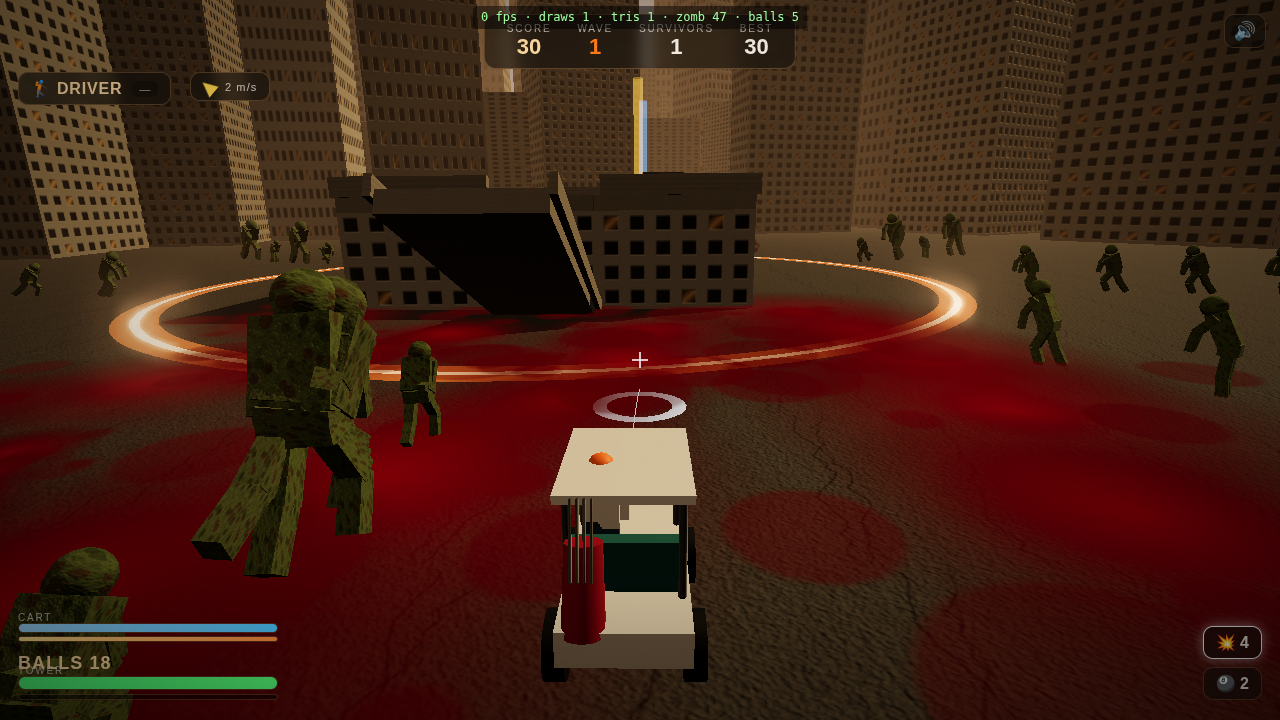
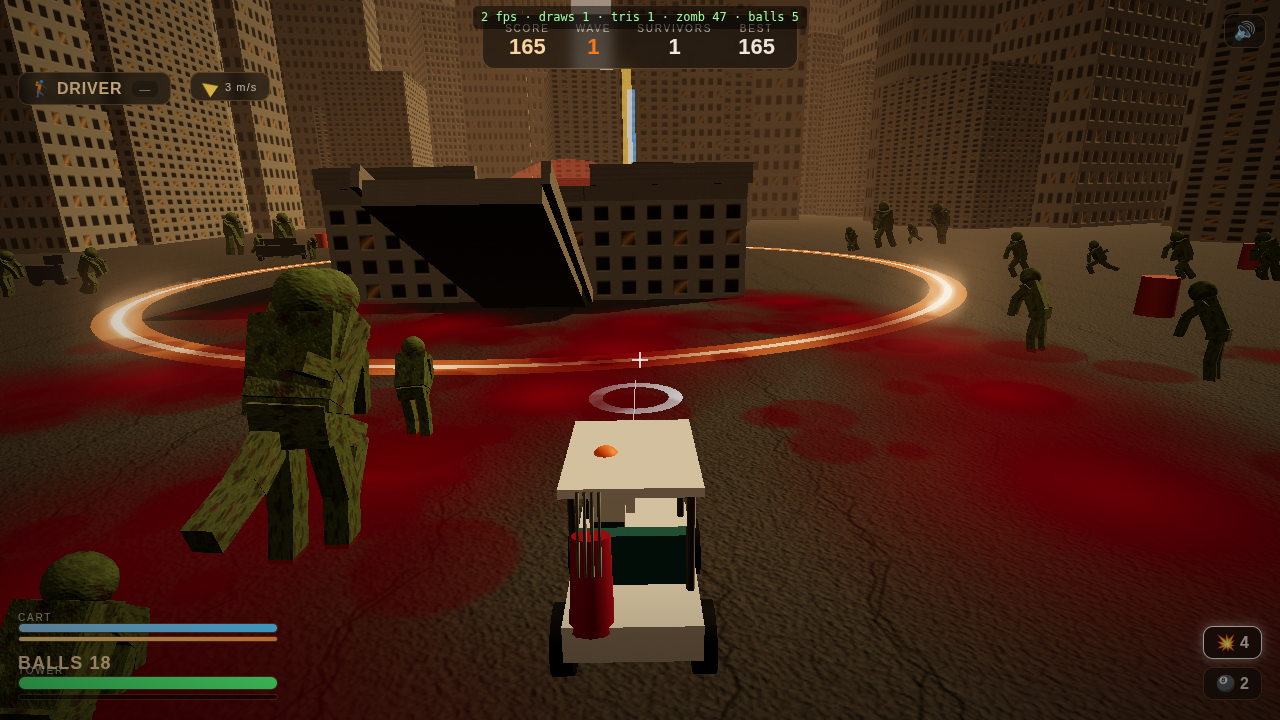
Slice 5: chaos props (barrels/cars, chain reactions) + fireball juice
New props.js: explosive barrels + abandoned cars as two InstancedMeshes (2 draw
calls), seeded placement in clusters + rings, ball/explosion/cart detonation
with staggered chain reactions, AoE kills + score + screenshake + hit-stop +
bloom boom-pulse + world flash. effects.js gains muzzle/fireball/embers/smoke/
debris and bigger pools (cap 900, 8 flashes). Bloom already composited (Slice 0).
Verified: 21 props placed, ball detonation chained (2 destroyed) scoring 135;
zero errors.

Claude-Session: https://claude.ai/code/session_01Mg4jfxrjoLk6LwHjJKuzM6

diff --git a/public/js/props.js b/public/js/props.js
@@ -1,0 +1,196 @@
+// =============================================================
+// Props — street-level destructibles: explosive barrels + abandoned cars.
+// Two InstancedMeshes (2 draw calls). Ball/explosion/cart detonation with
+// staggered chain reactions. Zero per-frame allocation.
+// =============================================================
+import * as THREE from 'three';
+import { CONFIG } from './config.js';
+import { makeRNG, mergeGeometries, TAU } from './utils.js';
+
+const P = CONFIG.props;
+
+export class Props {
+  constructor(scene, ctx) {
+    this.ctx = ctx;
+    this.rng = makeRNG(4242);
+
+    // ---- barrel mesh (rust cylinder, base at y=0) ----
+    const bgeo = new THREE.CylinderGeometry(P.barrelRadius * 0.8, P.barrelRadius * 0.85, P.barrelHeight, 12);
+    bgeo.translate(0, P.barrelHeight / 2, 0);
+    const bmat = new THREE.MeshStandardMaterial({ color: CONFIG.col.barrel, metalness: 0.3, roughness: 0.6 });
+    this.barrelMesh = new THREE.InstancedMesh(bgeo, bmat, P.barrelCount);
+    this.barrelMesh.castShadow = false; this.barrelMesh.receiveShadow = false; this.barrelMesh.frustumCulled = false;
+    this.barrelMesh.instanceMatrix.setUsage(THREE.DynamicDrawUsage);
+    scene.add(this.barrelMesh);
+
+    // ---- car mesh (merged boxes + wheels, wheels at y≈0.6) ----
+    const h = P.carHalf;
+    const parts = [];
+    const M = (geo, x, y, z) => { const m = new THREE.Matrix4().makeTranslation(x, y, z); parts.push({ geo, mat4: m }); };
+    M(new THREE.BoxGeometry(h[0] * 2, h[1] * 1.1, h[2] * 2), 0, 0.6 + h[1] * 0.55, 0);
+    M(new THREE.BoxGeometry(h[0] * 1.3, h[1] * 1.0, h[2] * 1.1), 0, 0.6 + h[1] * 1.3, -0.4);
+    for (const [wx, wz] of [[h[0] - 0.4, h[2] - 0.5], [-(h[0] - 0.4), h[2] - 0.5], [h[0] - 0.4, -(h[2] - 0.5)], [-(h[0] - 0.4), -(h[2] - 0.5)]]) {
+      const wg = new THREE.CylinderGeometry(0.6, 0.6, 0.5, 10); wg.rotateZ(Math.PI / 2);
+      M(wg, wx, 0.6, wz);
+    }
+    const cgeo = mergeGeometries(THREE, parts);
+    const cmat = new THREE.MeshStandardMaterial({ color: CONFIG.col.carBody, metalness: 0.45, roughness: 0.5 });
+    this.carMesh = new THREE.InstancedMesh(cgeo, cmat, P.carCount);
+    this.carMesh.castShadow = false; this.carMesh.receiveShadow = false; this.carMesh.frustumCulled = false;
+    this.carMesh.instanceMatrix.setUsage(THREE.DynamicDrawUsage);
+    scene.add(this.carMesh);
+
+    // pools
+    this.barrels = []; this.cars = [];
+    for (let i = 0; i < P.barrelCount; i++) this.barrels.push(this._mk('barrel', this.barrelMesh, i));
+    for (let i = 0; i < P.carCount; i++) this.cars.push(this._mk('car', this.carMesh, i));
+    this.all = this.barrels.concat(this.cars);
+
+    // scratch
+    this._m = new THREE.Matrix4(); this._q = new THREE.Quaternion(); this._e = new THREE.Euler();
+    this._v = new THREE.Vector3(); this._s = new THREE.Vector3(); this._col = new THREE.Color();
+    this._hidden = new THREE.Matrix4().makeScale(0, 0, 0);
+    this._barrelDirty = false; this._carDirty = false;
+
+    this.reset();
+  }
+
+  _mk(kind, mesh, i) { return { kind, mesh, i, x: 0, z: 0, yaw: 0, alive: false, cooking: false, cookT: 0, cookDelay: 0, scale: 1 }; }
+
+  _write(prop) {
+    const yBase = 0;
+    if (!prop.alive) { prop.mesh.setMatrixAt(prop.i, this._hidden); }
+    else {
+      this._q.setFromEuler(this._e.set(0, prop.yaw, 0));
+      this._m.compose(this._v.set(prop.x, yBase, prop.z), this._q, this._s.set(prop.scale, prop.scale, prop.scale));
+      prop.mesh.setMatrixAt(prop.i, this._m);
+    }
+    if (prop.kind === 'barrel') this._barrelDirty = true; else this._carDirty = true;
+  }
+
+  _placeOne(prop, x, z) {
+    prop.x = x; prop.z = z; prop.yaw = this.rng() * TAU;
+    prop.alive = true; prop.cooking = false; prop.cookT = 0; prop.scale = 1;
+    this._write(prop);
+  }
+
+  _scatter(prop) {
+    // pick a spot in the field ring, away from the tower base and the ramp lane
+    for (let tries = 0; tries < 12; tries++) {
+      const a = this.rng() * TAU, rad = this.rng.range(P.ringMin, P.ringMax);
+      const x = Math.cos(a) * rad, z = Math.sin(a) * rad;
+      if (Math.abs(x) < CONFIG.ramp.width && z * CONFIG.ramp.side > 20) continue; // keep ramp lane clear
+      this._placeOne(prop, x, z); return;
+    }
+    this._placeOne(prop, Math.cos(this.rng() * TAU) * P.ringMax, Math.sin(this.rng() * TAU) * P.ringMax);
+  }
+
+  reset() {
+    for (const p of this.all) { p.alive = false; p.cooking = false; this._write(p); }
+    this.place();
+  }
+
+  place() {
+    // clusters first (chain-reaction lanes), then ring scatter for the rest
+    let bi = 0;
+    const clusters = Math.min(P.clusterCount, Math.floor(P.barrelCount / 2));
+    for (let c = 0; c < clusters && bi < this.barrels.length; c++) {
+      const a = this.rng() * TAU, rad = this.rng.range(P.ringMin, P.ringMax);
+      const cx = Math.cos(a) * rad, cz = Math.sin(a) * rad;
+      const k = 2 + Math.floor(this.rng() * 2);
+      for (let j = 0; j < k && bi < this.barrels.length; j++) {
+        this._placeOne(this.barrels[bi++], cx + this.rng.range(-P.clusterSpread, P.clusterSpread), cz + this.rng.range(-P.clusterSpread, P.clusterSpread));
+      }
+    }
+    for (; bi < this.barrels.length; bi++) this._scatter(this.barrels[bi]);
+    for (const car of this.cars) this._scatter(car);
+    this._flush();
+  }
+
+  respawn() {
+    let budget = Math.floor((this.barrels.length + this.cars.length) * P.respawnFrac);
+    for (const p of this.all) {
+      if (budget <= 0) break;
+      if (!p.alive) { this._scatter(p); budget--; }
+    }
+    this._flush();
+  }
+
+  _flush() {
+    if (this._barrelDirty) { this.barrelMesh.instanceMatrix.needsUpdate = true; this._barrelDirty = false; }
+    if (this._carDirty) { this.carMesh.instanceMatrix.needsUpdate = true; this._carDirty = false; }
+  }
+
+  hitTest(p, r) {
+    if (p.y > 4) return null;
+    for (const prop of this.all) {
+      if (!prop.alive || prop.cooking) continue;
+      const rad = (prop.kind === 'car' ? P.carRadius : P.barrelRadius) + r;
+      const dx = p.x - prop.x, dz = p.z - prop.z;
+      if (dx * dx + dz * dz < rad * rad) return prop;
+    }
+    return null;
+  }
+
+  igniteArea(pos, r) {
+    const rr = r * r;
+    for (const prop of this.all) {
+      if (!prop.alive || prop.cooking) continue;
+      const dx = prop.x - pos.x, dz = prop.z - pos.z;
+      if (dx * dx + dz * dz < rr) this._cook(prop);
+    }
+  }
+
+  cartTest(px, pz, speed) {
+    if (speed < P.ramSpeedMin) return;
+    for (const prop of this.all) {
+      if (!prop.alive || prop.cooking) continue;
+      const rad = (prop.kind === 'car' ? P.carRadius : P.barrelRadius) + 2.2;
+      const dx = px - prop.x, dz = pz - prop.z;
+      if (dx * dx + dz * dz < rad * rad) this.detonate(prop, 0);
+    }
+  }
+
+  _cook(prop) {
+    if (!prop.alive || prop.cooking) return;
+    prop.cooking = true; prop.cookT = 0;
+    prop.cookDelay = (P.chainDelayMin + Math.random() * (P.chainDelayMax - P.chainDelayMin)) / 1000;
+  }
+
+  detonate(prop, depth) {
+    if (!prop.alive) return;
+    prop.alive = false; prop.cooking = false; this._write(prop);
+    const car = prop.kind === 'car';
+    const dmgR = car ? P.carDmgRadius : P.barrelDmgRadius;
+    this._v.set(prop.x, 1.4, prop.z);
+    const killed = this.ctx.zombies.damageArea(this._v, dmgR, { dmg: CONFIG.explosionDamage, dismember: true });
+    this.ctx.game.addScore(killed * CONFIG.scorePerKill + Math.max(0, killed - 1) * CONFIG.comboBonus + P.scorePerProp, killed > 1);
+    this.ctx.effects.fireball(this._v, car);
+    this.ctx.gore?.splat(this._v, car ? 2.4 : 1.6);
+    this.ctx.audio.explosion();
+    this.ctx.shake.addTrauma(car ? P.carTrauma : P.barrelTrauma);
+    this.ctx.shake.hitStop(car ? P.carHitStop : P.barrelHitStop);
+    this.ctx.postfx?.boomPulse?.();
+    this.ctx.world?.flash?.(car ? 0.7 : 0.5);
+    // chain: cook neighbours (staggered)
+    if (depth < this.all.length) {
+      for (const other of this.all) {
+        if (!other.alive || other.cooking) continue;
+        const dx = other.x - prop.x, dz = other.z - prop.z;
+        if (dx * dx + dz * dz < dmgR * dmgR) this._cook(other);
+      }
+    }
+  }
+
+  update(dt) {
+    for (const prop of this.all) {
+      if (!prop.cooking) continue;
+      prop.cookT += dt;
+      if (Math.random() < dt * 8) this.ctx.effects.embers(this._v.set(prop.x, P.barrelHeight, prop.z), 2); // telegraph
+      if (prop.cookT >= prop.cookDelay) this.detonate(prop, 0);
+    }
+    const pl = this.ctx.player;
+    if (pl.region !== 2) this.cartTest(pl.pos.x, pl.pos.z, Math.abs(pl.speed));
+    this._flush();
+  }
+}

diff --git a/public/js/effects.js b/public/js/effects.js
@@ -19,7 +19,7 @@ function softSprite() {
 export class Effects {
   constructor(scene) {
     this.scene = scene;
-    this.cap = 520;
+    this.cap = 900;
     this.pos = new Float32Array(this.cap * 3);
     this.col = new Float32Array(this.cap * 3);
     this.vel = new Float32Array(this.cap * 3);
@@ -45,7 +45,7 @@ export class Effects {
     // flash spheres + lights pool
     this.flashes = [];
     const fgeo = new THREE.SphereGeometry(1, 16, 12);
-    for (let i = 0; i < 6; i++) {
+    for (let i = 0; i < 8; i++) {
       const mesh = new THREE.Mesh(fgeo, new THREE.MeshBasicMaterial({
         color: CONFIG.col.explosive, transparent: true, opacity: 0, blending: THREE.AdditiveBlending, depthWrite: false,
       }));
@@ -99,6 +99,21 @@ export class Effects {
     this._emit(x, y, z, n, { r: 0.65, g: 0.08, b: 0.06, speed: 8 + mag * 0.4, spread: 1, life: 0.55, gravity: 22, up: 3 });
   }
   exhaust(x, y, z) { this._emit(x, y, z, 3, { r: 0.55, g: 0.55, b: 0.6, speed: 5, spread: 1, life: 0.4, gravity: -2, up: 0.5 }); }
+  muzzle(p, dir) { this._emit(p.x, p.y, p.z, 8, { r: 1, g: 0.9, b: 0.6, speed: 16, spread: 0.5, life: 0.16, gravity: 2, up: 1 }); }
+  embers(p, n) { this._emit(p.x, p.y, p.z, n, { r: 1.0, g: 0.55, b: 0.2, speed: 10, spread: 1, life: 0.7, gravity: 8, up: 4 }); }
+  smoke(p, n) { this._emit(p.x, p.y + 0.5, p.z, n, { r: 0.16, g: 0.14, b: 0.13, speed: 4, spread: 1, life: 1.2, gravity: -1.5, up: 2 }); }
+  debris(p, n) { this._emit(p.x, p.y, p.z, n, { r: 0.5, g: 0.4, b: 0.3, speed: 24, spread: 1, life: 1.0, gravity: 22, up: 6 }); }
+  fireball(p, big) {
+    const n = big ? 70 : 44;
+    this._emit(p.x, p.y, p.z, n, { r: 1.0, g: 0.5, b: 0.16, speed: big ? 34 : 26, spread: 1, life: 0.8, gravity: 14, up: 5 });
+    this._emit(p.x, p.y, p.z, big ? 20 : 14, { r: 1.0, g: 0.9, b: 0.55, speed: big ? 44 : 34, spread: 1, life: 0.45, gravity: 5, up: 7 });
+    this.smoke(p, big ? 14 : 8);
+    this.debris(p, big ? 16 : 10);
+    const f = this.flashes.find((x) => x.t < 0) || this.flashes[0];
+    f.t = 0; f.mesh.visible = true; f.mesh.position.copy(p); f.light.position.set(p.x, p.y + 2, p.z);
+    const r = this.rings.find((x) => x.t < 0) || this.rings[0];
+    r.t = 0; r.mesh.visible = true; r.mesh.position.set(p.x, 0.3, p.z);
+  }
 
   reset() {
     for (let i = 0; i < this.cap; i++) { this.life[i] = 0; this.pos[i * 3 + 1] = -9999; }

diff --git a/public/js/main.js b/public/js/main.js
@@ -19,6 +19,7 @@ import { Input } from './input.js';
 import { HUD } from './hud.js';
 import { PostFX, Shake } from './postfx.js';
 import { Gore } from './gore.js';
+import { Props } from './props.js';
 
 const canvas = document.getElementById('c');
 const renderer = new THREE.WebGLRenderer({ canvas, antialias: true, powerPreference: 'high-performance' });
@@ -47,7 +48,8 @@ ctx.player = new Player(scene, ctx);
 ctx.zombies = new Zombies(scene, ctx);
 ctx.powerups = new PowerUps(scene, ctx);
 ctx.golf = new Golf(scene, ctx);
-// ctx.gore / ctx.props / ctx.survivors added in later slices
+ctx.props = new Props(scene, ctx);
+// ctx.survivors added in a later slice
 
 const hud = new HUD();
 const input = new Input(canvas);
